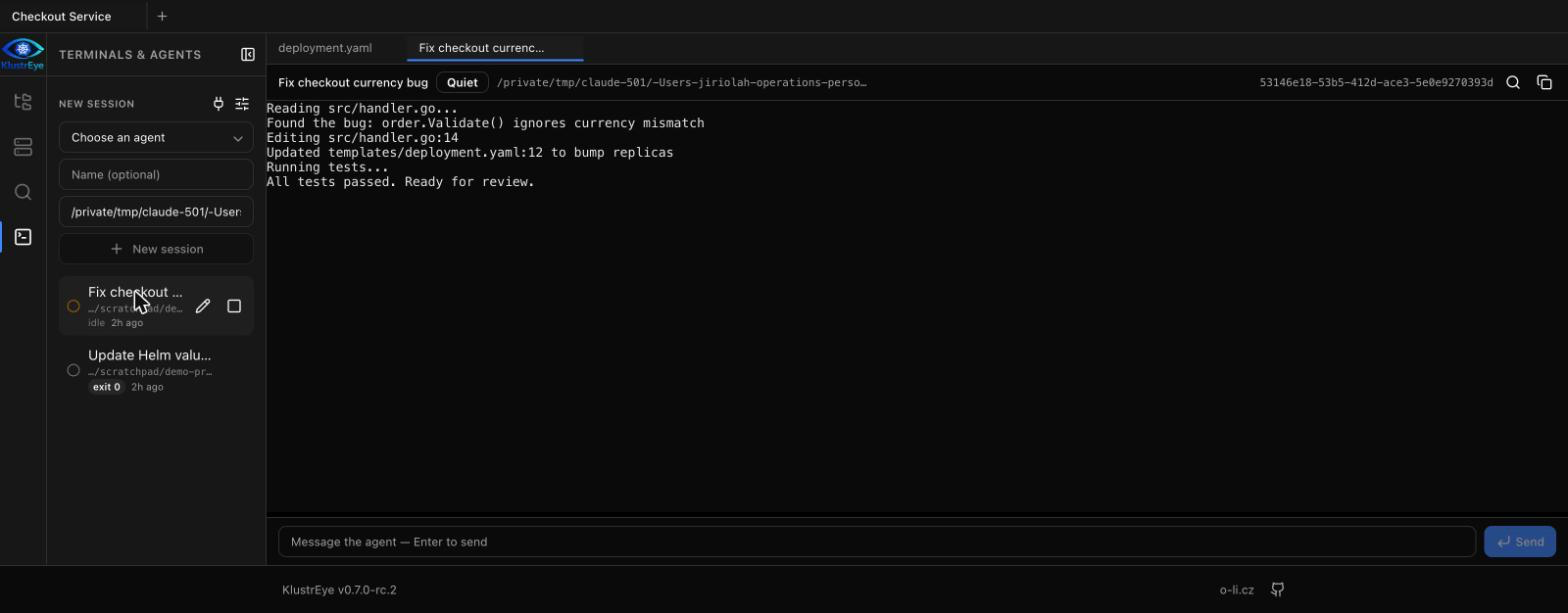
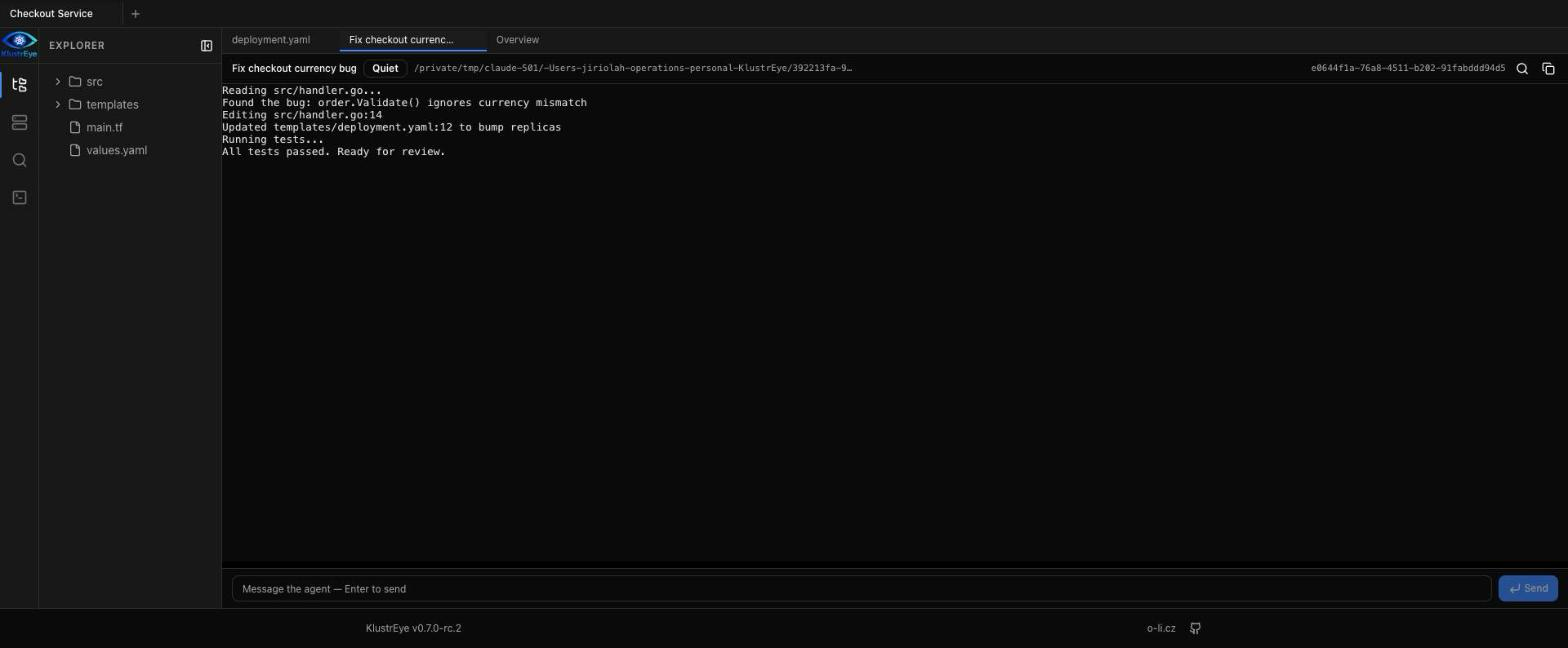
docs: place overview/pod screenshots in feature sections, retake dummy screenshots at higher resolution

diff --git a/README.md b/README.md
@@ -8,14 +8,6 @@
   <img src="public/screenshot_homepage.png" alt="KlustrEye">
 </p>
 
-<p align="center">
-  <img src="public/screenshot_overview.png" alt="KlustrEye">
-</p>
-
-<p align="center">
-  <img src="public/screenshot_pod.png" alt="KlustrEye">
-</p>
-
 A native desktop DevOps platform built with Tauri, React, and Rust — Kubernetes cluster operations, a real code editor, and supervised AI coding agents in one app. A **workspace** binds a local folder and any number of clusters, so diagnosing a broken pod, editing the Terraform or Helm chart that caused it, and handing the fix to an agent all happen without leaving the window.
 
 ## Features
@@ -63,6 +55,10 @@ A native desktop DevOps platform built with Tauri, React, and Rust — Kubernete
 - **Default namespace** — configurable default namespace, display name, and organization assignment via the cluster settings page
 - **Cluster shell terminal** — open a local shell scoped to a cluster context (portable-pty + WebSocket backend)
 
+<p align="center">
+  <img src="public/screenshot_overview.png" alt="Cluster overview with node, pod, and health status">
+</p>
+
 ### Workload Management
 - **Resource browsing** — view Deployments, StatefulSets, DaemonSets, ReplicaSets, Pods, Jobs, CronJobs, Services, Ingresses, ConfigMaps, Secrets, PVCs, ServiceAccounts, and Nodes
 - **Batch operations** — select multiple resources and delete in bulk
@@ -74,6 +70,10 @@ A native desktop DevOps platform built with Tauri, React, and Rust — Kubernete
 - **Owner references** — resource detail metadata shows "Controlled By" links to parent resources
 - **Secret value reveal** — click eye icon on pod env vars to lazy-fetch and decode base64 secret values inline
 - **RBAC Access** — browse and inspect Roles, ClusterRoles, RoleBindings, and ClusterRoleBindings
+
+<p align="center">
+  <img src="public/screenshot_pod.png" alt="Pod detail page with metadata, events, and logs">
+</p>
 
 ### Helm
 - **Release management** — list, install, and uninstall Helm releases
